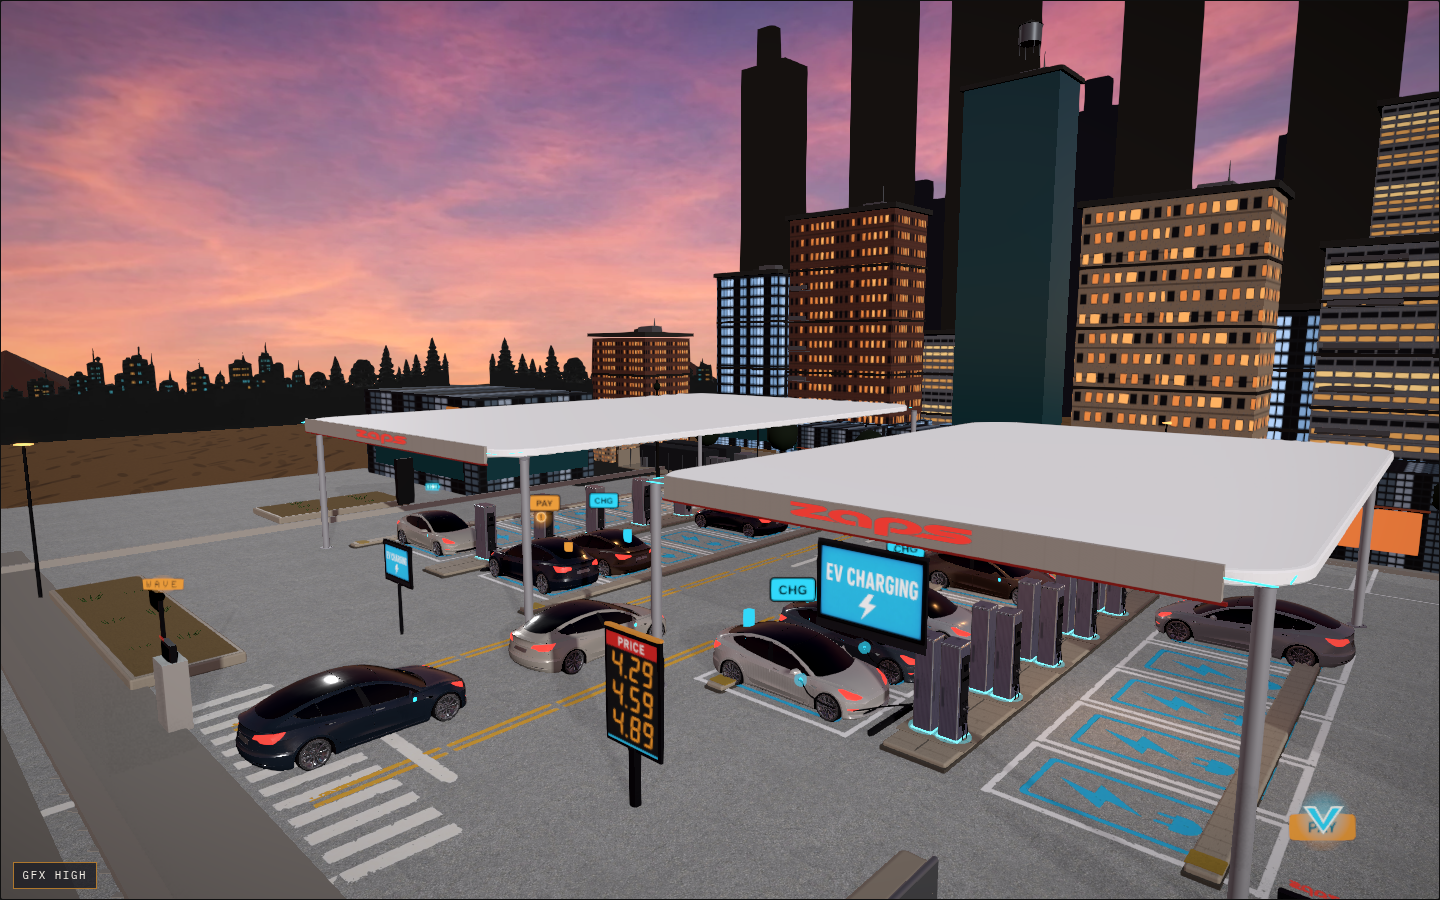
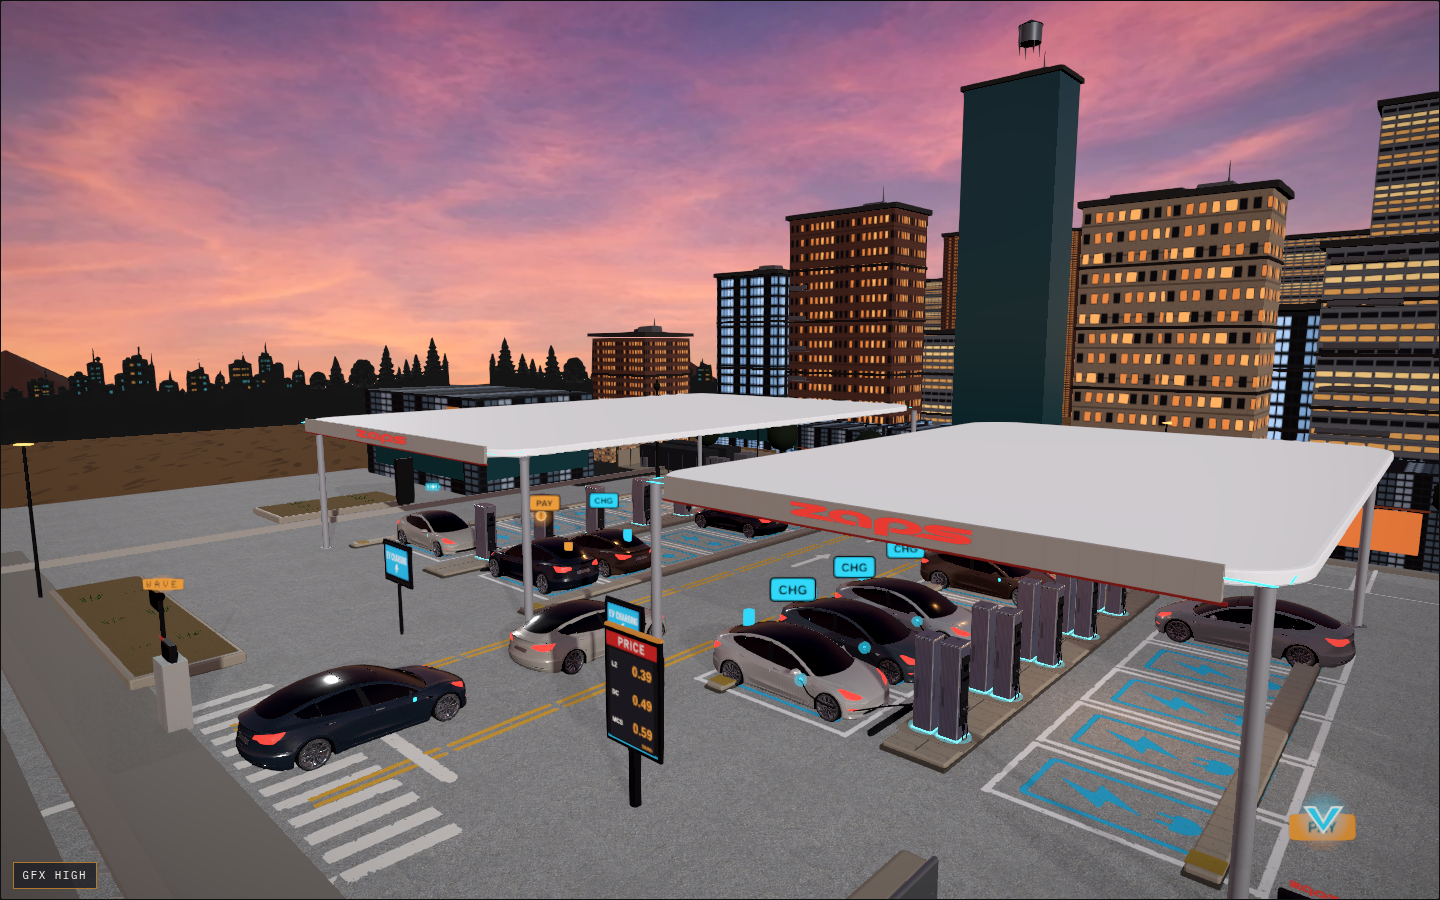
Replace gas prices, light the horizon towers, and reframe the floor.
The price face keeps its photo header and now covers the baked gasoline
digits with cached per-kWh tiers. Distant black slabs use the lit-window
facade and sit lower so the city strip holds the horizon. The EV board
moves to a canopy-corner post, and the floor still looks at an open bay
instead of a roof.

diff --git a/src/world/rev6art.ts b/src/world/rev6art.ts
@@ -238,6 +238,65 @@ const readyGate = Promise.all([
   cityMat.needsUpdate = true;
 });
 
+/**
+ * Gasoline digits are baked into sign_price.webp. This plate covers only that
+ * block and draws per-kWh tiers. Built once.
+ */
+function priceDigitTexture(): THREE.CanvasTexture {
+  const canvas = document.createElement("canvas");
+  canvas.width = 768;
+  canvas.height = 1152;
+  const ctx = canvas.getContext("2d");
+  if (ctx) {
+    ctx.clearRect(0, 0, canvas.width, canvas.height);
+    ctx.fillStyle = "#1E1E24";
+    ctx.fillRect(48, 168, 672, 960);
+    const rows: Array<[string, string, number]> = [
+      ["L2", "0.39", 340],
+      ["DC", "0.49", 640],
+      ["MCS", "0.59", 940],
+    ];
+    for (const [tier, price, y] of rows) {
+      ctx.fillStyle = "#F5F0E8";
+      ctx.font = "600 72px sans-serif";
+      ctx.textAlign = "left";
+      ctx.textBaseline = "middle";
+      ctx.fillText(tier, 88, y);
+      ctx.fillStyle = "#E89A2E";
+      ctx.font = "700 148px sans-serif";
+      ctx.textAlign = "right";
+      ctx.fillText(price, 690, y);
+    }
+    ctx.fillStyle = "#E89A2E";
+    ctx.font = "600 52px sans-serif";
+    ctx.textAlign = "right";
+    ctx.fillText("$/kWh", 690, 1088);
+  }
+  const tex = new THREE.CanvasTexture(canvas);
+  tex.colorSpace = THREE.SRGBColorSpace;
+  tex.anisotropy = 8;
+  tex.generateMipmaps = true;
+  tex.minFilter = THREE.LinearMipmapLinearFilter;
+  tex.magFilter = THREE.LinearFilter;
+  tex.needsUpdate = true;
+  return tex;
+}
+
+const priceDigits = priceDigitTexture();
+const priceDigitMat = new THREE.MeshStandardMaterial({
+  name: "Rev6PriceDigits",
+  map: priceDigits,
+  emissiveMap: priceDigits,
+  emissive: 0xffffff,
+  emissiveIntensity: 0.72,
+  color: 0xffffff,
+  roughness: 0.48,
+  metalness: 0,
+  transparent: false,
+  alphaTest: 0.4,
+  depthWrite: true,
+});
+
 function signMat(mat: THREE.MeshStandardMaterial, tex: THREE.Texture, intensity: number): void {
   mat.map = tex;
   mat.emissiveMap = tex;
@@ -270,9 +329,11 @@ const paintParams: THREE.MeshStandardMaterialParameters = {
   transparent: false,
   alphaTest: 0.42,
   depthWrite: true,
+  // Just enough to clear the asphalt. A larger bias was drawing the bay glyph
+  // through the car greenhouse when the camera looked down.
   polygonOffset: true,
-  polygonOffsetFactor: -2,
-  polygonOffsetUnits: -4,
+  polygonOffsetFactor: -1,
+  polygonOffsetUnits: -1,
 };
 
 const bayMat = new THREE.MeshStandardMaterial({
@@ -382,7 +443,7 @@ function flatDecal(
   pivot.add(mesh);
   mesh.receiveShadow = true;
   mesh.castShadow = false;
-  mesh.renderOrder = 2;
+  mesh.renderOrder = 1;
   mesh.userData.rev6Decal = true;
   // Paint stays on the photo. The canopy AO clone would crush the lines to black.
   mesh.userData.noBake = true;
@@ -477,23 +538,40 @@ function addSigns(root: THREE.Group): void {
   cabinet.userData.noBake = true;
   const price = photoFace(priceMat, 1.38, 2.07);
   price.position.set(0, 2.2, 0.05);
+  const priceDigitsFront = photoFace(priceDigitMat, 1.38, 2.07);
+  priceDigitsFront.position.set(0, 2.2, 0.064);
   const priceBack = photoFace(priceMat, 1.38, 2.07);
   priceBack.position.set(0, 2.2, -0.05);
   priceBack.rotation.y = Math.PI;
+  const priceDigitsBack = photoFace(priceDigitMat, 1.38, 2.07);
+  priceDigitsBack.position.set(0, 2.2, -0.064);
+  priceDigitsBack.rotation.y = Math.PI;
   const lip = new THREE.Mesh(new THREE.BoxGeometry(1.5, 0.05, 0.1), amber);
   lip.position.set(0, 3.34, 0);
   lip.userData.noBake = true;
-  pylon.add(pole, cabinet, price, priceBack, lip);
+  pylon.add(pole, cabinet, price, priceDigitsFront, priceBack, priceDigitsBack, lip);
   noRay(pylon);
   root.add(pylon);
 
+  // Corner post, south-east of the left canopy. Off the fascia and out of the
+  // walk under the soffit, so it does not cover the wordmark.
   const canopy = CANOPIES[0];
-  const fasciaZ = canopy.z - canopy.d * 0.5 - 0.2;
-  const evHang = photoFace(evMat, 2.35, 1.75);
-  evHang.position.set(canopy.x, 3.95, fasciaZ);
-  evHang.rotation.y = Math.PI;
-  evHang.userData.noBake = true;
-  root.add(evHang);
+  const evCorner = new THREE.Group();
+  evCorner.position.set(canopy.x + canopy.w * 0.5 - 0.55, 0, canopy.z - canopy.d * 0.5 - 1.15);
+  evCorner.userData.noBake = true;
+  const cornerPole = new THREE.Mesh(new THREE.CylinderGeometry(0.05, 0.06, 2.05, 8), charcoal);
+  cornerPole.position.y = 1.02;
+  cornerPole.castShadow = true;
+  cornerPole.userData.noBake = true;
+  const cornerBoard = new THREE.Mesh(new THREE.BoxGeometry(1.28, 0.96, 0.06), charcoal);
+  cornerBoard.position.y = 2.28;
+  cornerBoard.userData.noBake = true;
+  const cornerFace = photoFace(evMat, 1.18, 0.88);
+  cornerFace.position.set(0, 2.28, -0.04);
+  cornerFace.rotation.y = Math.PI;
+  evCorner.add(cornerPole, cornerBoard, cornerFace);
+  noRay(evCorner);
+  root.add(evCorner);
 
   const evPost = new THREE.Group();
   evPost.position.set(6.4, 0, -11.4);

diff --git a/src/world/skyline.ts b/src/world/skyline.ts
@@ -56,8 +56,7 @@ const house = new THREE.MeshStandardMaterial({
   emissiveIntensity: 0.45,
 });
 const band = new THREE.MeshStandardMaterial({ color: 0x2a2620, roughness: 0.7, metalness: 0.08 });
-const silFar = new THREE.MeshBasicMaterial({ color: 0x141218, fog: true });
-const silNear = new THREE.MeshBasicMaterial({ color: 0x1c1816, fog: true });
+const facadeCycle = [plasterWarm, plasterCool, plasterDark, plasterBrick];
 
 function addStreetSlot(root: THREE.Group, x: number, z: number, yaw: number, color: number): void {
   const slot = new THREE.Group();
@@ -148,13 +147,28 @@ function addApartment(
   }
 }
 
-function addSilhouette(root: THREE.Group, x: number, z: number, w: number, h: number, d: number, far = true): void {
-  const mesh = new THREE.Mesh(new THREE.BoxGeometry(w, h, d), far ? silFar : silNear);
-  mesh.position.set(x, h * 0.5 - 0.2, z);
-  root.add(mesh);
-  const cap = new THREE.Mesh(new THREE.BoxGeometry(w * 0.35, h * 0.12, d * 0.4), far ? silFar : silNear);
-  cap.position.set(x + w * 0.12, h + h * 0.04, z);
-  root.add(cap);
+/** Tile the shared window facade so a tall block is not one stretched storey. */
+function tileBoxUvs(geo: THREE.BufferGeometry, uScale: number, vScale: number): void {
+  const uv = geo.getAttribute("uv") as THREE.BufferAttribute;
+  for (let i = 0; i < uv.count; i++) uv.setXY(i, uv.getX(i) * uScale, uv.getY(i) * vScale);
+  uv.needsUpdate = true;
+}
+
+/**
+ * Distant towers used to be flat black boxes. They now use the same lit-window
+ * plaster as the neighborhood, and stay low enough that the city strip still
+ * owns the horizon.
+ */
+function addLitTower(root: THREE.Group, x: number, z: number, w: number, h: number, d: number, index: number): void {
+  const geo = new THREE.BoxGeometry(w, h, d);
+  tileBoxUvs(geo, Math.max(1, w / 4.4), Math.max(1.4, h / 3.6));
+  const mesh = new THREE.Mesh(geo, facadeCycle[index % facadeCycle.length]);
+  mesh.position.set(x, h * 0.5 - 0.15, z);
+  mesh.castShadow = false;
+  mesh.receiveShadow = true;
+  const cap = new THREE.Mesh(new THREE.BoxGeometry(w + 0.35, 0.28, d + 0.3), roof);
+  cap.position.set(x, h + 0.02, z);
+  root.add(mesh, cap);
 }
 
 function addDesert(root: THREE.Group): void {
@@ -277,17 +291,17 @@ function addSkylineRow(root: THREE.Group): void {
     [46, 67, 7, 15, 4],
     [56, 70, 8, 21, 4.5],
   ];
-  for (const [x, z, w, h, d] of far) addSilhouette(root, x, z, w, h, d, true);
+  far.forEach(([x, z, w, h, d], i) => addLitTower(root, x, z, w, h * 0.62, d, i));
   const mid: Array<[number, number, number, number, number]> = [
-    [-30, 41, 5.2, 36, 3.6],
-    [-20, 43, 4.6, 42, 3.2],
-    [-9, 42, 5.0, 38, 3.4],
-    [2, 44, 4.4, 46, 3.0],
-    [13, 41, 5.6, 40, 3.6],
-    [24, 43, 4.8, 44, 3.2],
-    [34, 40, 5.2, 34, 3.4],
+    [-30, 41, 5.2, 16, 3.6],
+    [-20, 43, 4.6, 18, 3.2],
+    [-9, 42, 5.0, 15, 3.4],
+    [2, 44, 4.4, 19, 3.0],
+    [13, 41, 5.6, 17, 3.6],
+    [24, 43, 4.8, 18, 3.2],
+    [34, 40, 5.2, 14, 3.4],
   ];
-  for (const [x, z, w, h, d] of mid) addSilhouette(root, x, z, w, h, d, false);
+  mid.forEach(([x, z, w, h, d], i) => addLitTower(root, x, z, w, h, d, i + 3));
 }
 
 function addTree(root: THREE.Group, x: number, z: number, h = 4.4): void {

diff --git a/scripts/rev6-shots.ts b/scripts/rev6-shots.ts
@@ -60,14 +60,16 @@ const SHOTS: Shot[] = [
     lookAt: { x: -18.4, y: 1.18, z: 3.05 },
   },
   {
+    // Empty west stall (no parked hull). High eye so pitch is not clamped,
+    // aimed at the bay paint rather than a roof.
     file: "rev6-floor.png",
-    x: -3.4,
-    z: -5.15,
-    yaw: 0.2,
-    pitch: -0.72,
-    eyeY: 3.55,
-    fov: 42,
-    lookAt: { x: -4.5, y: 0.02, z: -6.7 },
+    x: -16.6,
+    z: -5.1,
+    yaw: 0.55,
+    pitch: -0.62,
+    eyeY: 5.4,
+    fov: 40,
+    lookAt: { x: -12.1, y: 0.02, z: -1.2 },
   },
   {
     file: "rev6-sky.png",

diff --git a/src/cars/opaque.ts b/src/cars/opaque.ts
@@ -37,7 +37,10 @@ export function glassMaterial(): THREE.MeshStandardMaterial {
     opacity: 1,
     depthWrite: true,
     depthTest: true,
-    side: THREE.DoubleSide,
+    side: THREE.FrontSide,
+    polygonOffset: true,
+    polygonOffsetFactor: -1,
+    polygonOffsetUnits: -2,
   });
 }
 

diff --git a/README.md b/README.md
@@ -73,7 +73,7 @@ Official cream/red Zaps wordmarks only (exact 1.8KB Drive SVGs). Palette: `#E632
 
 ## Rev 6 art
 
-`public/art/rev6/` is an OpenAI Images pass (gpt-image-2, see `ATTRIBUTION.md` there). The lot floor uses the tiled asphalt albedo and roughness, graded in code so the canopy shadow still shows the grain, with the baked canopy lightmaps kept on top. Painted bays, the entrance crosswalk, stop bar, lane arrows, and double-yellow segments are decals lined up with the stalls and the drive aisle. The full dusk plate is the skydome; `sky_dusk_2k.webp` is the PMREM source. Lounge glass looks through to `lounge_backdrop.webp`. A price pylon, an OPEN cabinet by the south door, and EV CHARGING faces sit on the lot and the storefront. A city-strip ring fills the horizon. The official fascia wordmark and the Slim Zeus pedestal are unchanged. `sign_plugin.webp` is reference only and is not on the charger.
+`public/art/rev6/` is an OpenAI Images pass (gpt-image-2, see `ATTRIBUTION.md` there). The lot floor uses the tiled asphalt albedo and roughness, graded in code so the canopy shadow still shows the grain, with the baked canopy lightmaps kept on top. Painted bays, the entrance crosswalk, stop bar, lane arrows, and double-yellow segments are decals lined up with the stalls and the drive aisle. The full dusk plate is the skydome; `sky_dusk_2k.webp` is the PMREM source. Lounge glass looks through to `lounge_backdrop.webp`. A price pylon shows per-kWh tiers over the photo face, an OPEN cabinet sits by the south door, and EV CHARGING faces sit on a canopy-corner post, a lot post, and the storefront. A city-strip ring fills the horizon. The official fascia wordmark and the Slim Zeus pedestal are unchanged. `sign_plugin.webp` is reference only and is not on the charger.
 
 Lot PBR/env pass: merge `4c80ec6`. Live hull: Tesla Model 3, opaque paint (`c9a88ca`). Gameplay/collision stills recaptured on this branch.
 
